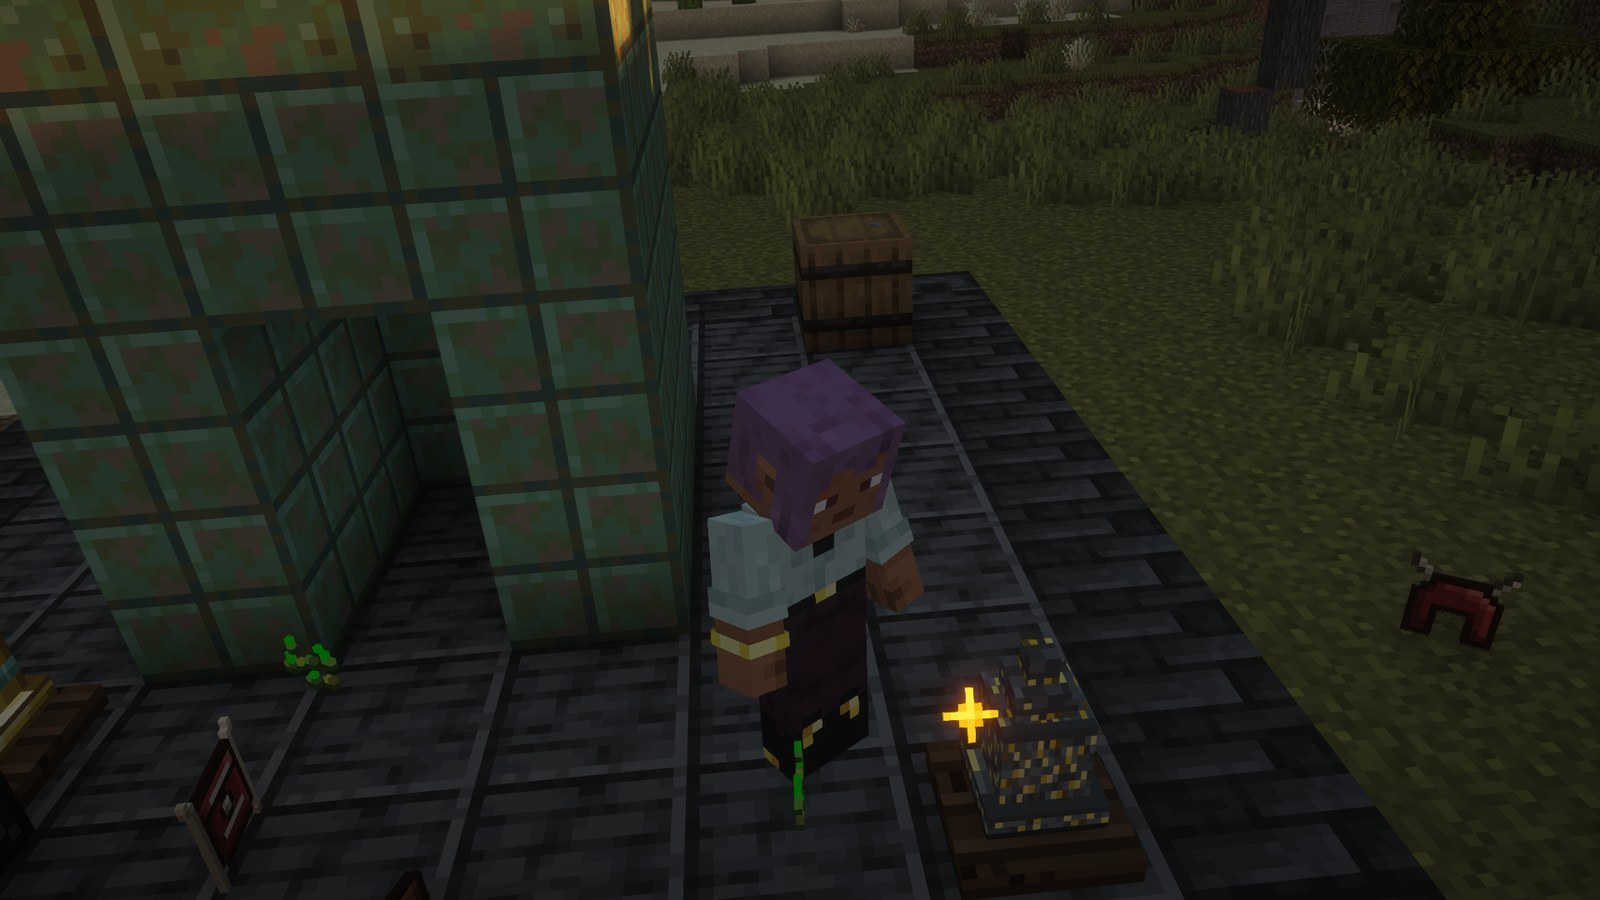
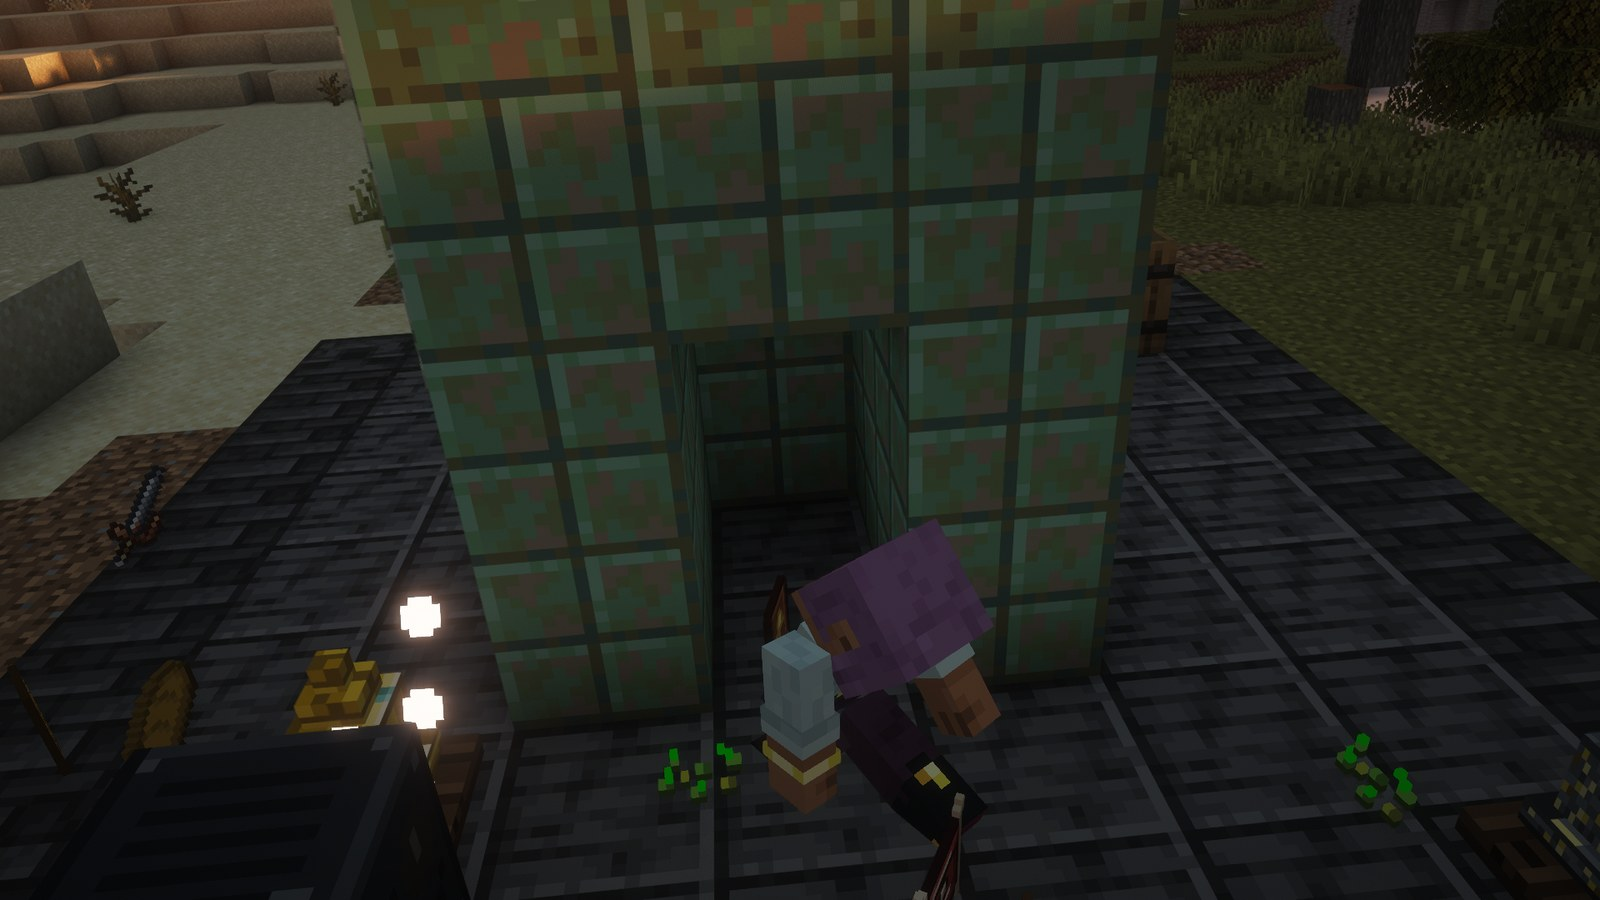
docs: 死亡過場照片改拍被生物擊倒的跪姿，故事卡與任務終止照片裁到重點

diff --git a/src/gametest/java/life/shizune/mistinn/test/MistinnPhotoTest.java b/src/gametest/java/life/shizune/mistinn/test/MistinnPhotoTest.java
@@ -243,11 +243,8 @@ public class MistinnPhotoTest implements FabricClientGameTest {
 			shot(context, "snuffer-dark", true);
 
 			// ── Struck down on the drop station's pad: the death scene, then the end ──
-			// (the lamp room is too tight for the scene's view; the keeper strikes from out of shot)
+			// (the lamp room is too tight for the scene's view)
 			world.getServer().runCommand("time set 12300");
-			// the keeper is only found while its lamp room is loaded: take hold of it first
-			Snuffer[] killer = new Snuffer[1];
-			world.getServer().runOnServer(server -> killer[0] = keeper(server, room));
 			world.getServer().runOnServer(server -> {
 				ServerPlayer player = player(server);
 				player.getAbilities().flying = false;
@@ -257,11 +254,23 @@ public class MistinnPhotoTest implements FabricClientGameTest {
 				player.teleportTo(server.overworld(), station.getX() + 0.5, station.getY() + 1, station.getZ() - 3.5, Set.of(), 180.0F, 10.0F, true);
 			});
 			context.waitTicks(200);
+			// struck down by a creature beside the hunter, close enough for the client to know it
+			// (the scene hides it); the keeper's room is far off and unloaded by now
+			world.getServer().runOnServer(server -> {
+				ServerPlayer player = player(server);
+				net.minecraft.world.entity.monster.zombie.Zombie zombie = net.minecraft.world.entity.EntityTypes.ZOMBIE.create(server.overworld(), net.minecraft.world.entity.EntitySpawnReason.COMMAND);
+				// beyond the pad's north edge, so the blows push the hunter onto the pad, not off it
+				zombie.snapTo(player.getX(), player.getY(), player.getZ() - 1.5, 0.0F, 0.0F);
+				zombie.setNoAi(true);
+				server.overworld().addFreshEntity(zombie);
+			});
+			context.waitTicks(10);
 			world.getServer().runOnServer(server -> {
 				ServerPlayer player = player(server);
 				for (int i = 0; i < 12 && player.isAlive(); i++) {
 					player.damageCooldownTime = 0;
-					player.hurtServer(server.overworld(), player.damageSources().mobAttack(killer[0]), 60.0F);
+					var killer = server.overworld().getEntitiesOfClass(net.minecraft.world.entity.monster.zombie.Zombie.class, player.getBoundingBox().inflate(6.0)).getFirst();
+					player.hurtServer(server.overworld(), player.damageSources().mobAttack(killer), 60.0F);
 				}
 			});
 			context.waitTicks(16);
@@ -276,6 +285,7 @@ public class MistinnPhotoTest implements FabricClientGameTest {
 			context.getInput().setCursorPos(back[0], back[1]);
 			context.waitTicks(2);
 			context.getInput().pressMouse(com.mojang.blaze3d.platform.InputConstants.MOUSE_BUTTON_LEFT);
+			world.getServer().runOnServer(server -> server.overworld().getEntities(net.minecraft.world.entity.EntityTypes.ZOMBIE, z -> true).forEach(net.minecraft.world.entity.Entity::discard));
 			// long enough for the respawn message to fade before the next photo
 			context.waitTicks(160);
 			world.getServer().runCommand("difficulty peaceful");

diff --git a/README.md b/README.md
@@ -184,7 +184,7 @@
 
 | | |
 | --- | --- |
-| ![夜裡的燈室，被熄燈人擊倒的追獵者單膝跪地、手撐著地面](docs/images/death.jpg) | ![任務終止畫面：紅字、死因、鏽錨站的一句話、兩個選項與被刺穿的心臟](docs/images/mission-end.jpg) |
+| ![黃昏的投放站平台上，被擊倒的追獵者單膝跪地、手撐著地面，身後是投放艙](docs/images/death.jpg) | ![任務終止畫面：紅字、死因、鏽錨站的一句話、兩個選項與被刺穿的心臟](docs/images/mission-end.jpg) |
 
 - **被生物殺死**（包括燈守）：其他生物全部隱去，視角繞到追獵者前上方。追獵者單膝跪地、手撐著地面發抖，隨後往側邊倒下，化成煙，原地留下殘香。
 - **其他死因**（飢餓、摔落、溺水、火焰等）：踉蹌一下，直接向前撲倒，之後一樣化成煙。

diff --git a/docs/README.en.md b/docs/README.en.md
@@ -165,7 +165,7 @@ Rust Anchor drops its hunters into the zone from beyond the edge. Where you wake
 
 ## Death and the end of the mission
 
-![Struck down by the Snuffer in the lamp room at night, a hunter on one knee, a hand on the floor](images/death.jpg)
+![Struck down on a drop station platform at dusk, a hunter on one knee, a hand on the floor, the pod behind](images/death.jpg)
 
 - **Killed by a creature** (keepers too): every other creature vanishes and the view swings out in front of and above the hunter, who drops to one knee, holds themselves up on a shaking hand, then topples onto one side and turns to smoke, leaving the residue.
 - **Any other death** (hunger, a fall, drowning, fire): a stagger, then a fall face down, and the same smoke.
